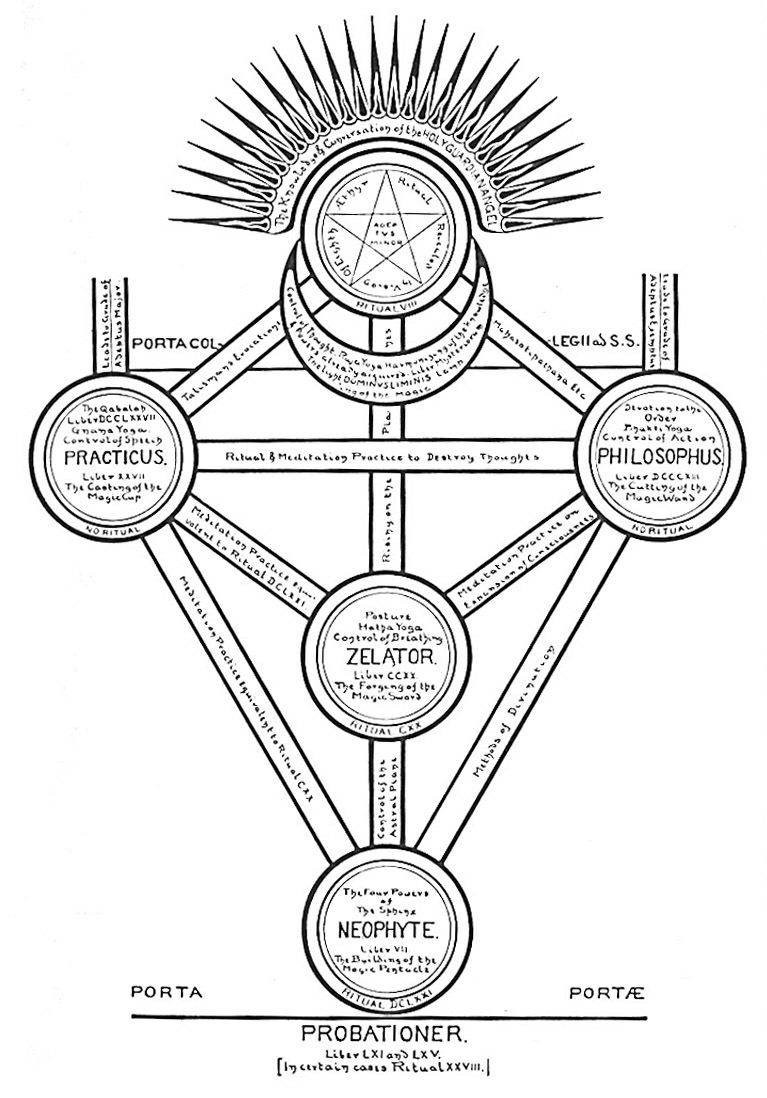
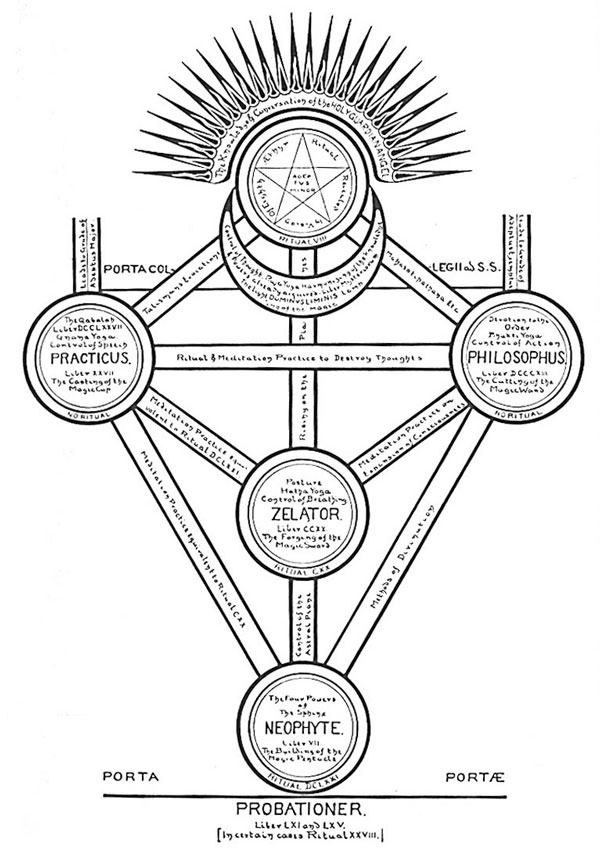
Image Size reduction

Changed region(s): [[0.03, 0.0, 0.99, 0.9988], [0.57, 0.5448, 0.75, 0.7567], [0.75, 0.5448, 0.78, 0.5751]]

diff --git a/scripts/mailer.js b/scripts/mailer.js
@@ -1,0 +1,26 @@
+const nodemailer = require('nodemailer');
+
+let transporter = nodemailer.createTransport({
+    host: 'smtp.dreamhost.com',
+    port: 465,
+    secure: true, // true for 465, false for other ports
+    auth: {
+        user: 'no-reply@thelema.org',
+        pass: 'Arr0w220', // Use the actual password
+    },
+});
+
+let mailOptions = {
+    from: '"Test" <no-reply@thelema.org>',
+    to: '312624@gmail.com', // Use a test Gmail address
+    subject: 'Hello from Node',
+    text: 'This is a test email.',
+};
+
+transporter.sendMail(mailOptions, (error, info) => {
+    if (error) {
+        console.log(error);
+    } else {
+        console.log('Email sent: ' + info.response);
+    }
+});
